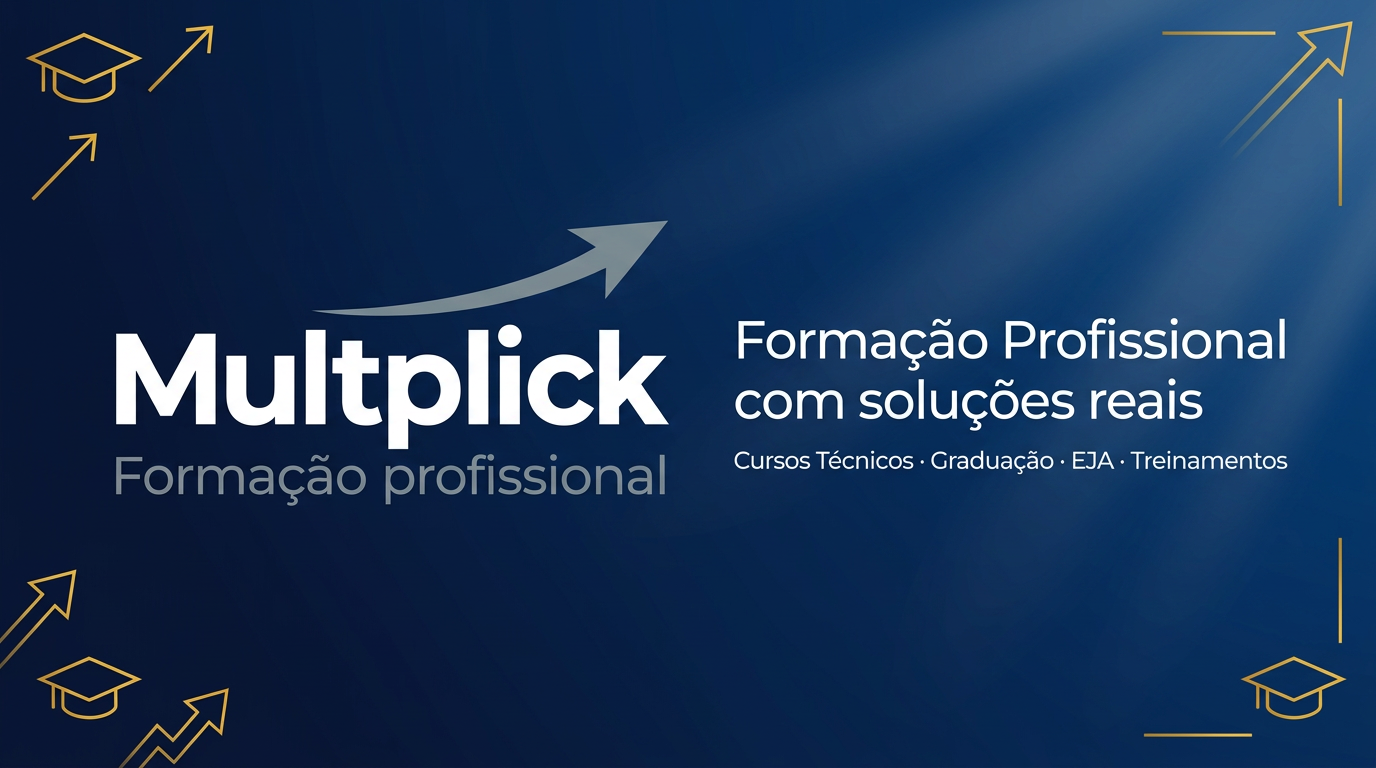
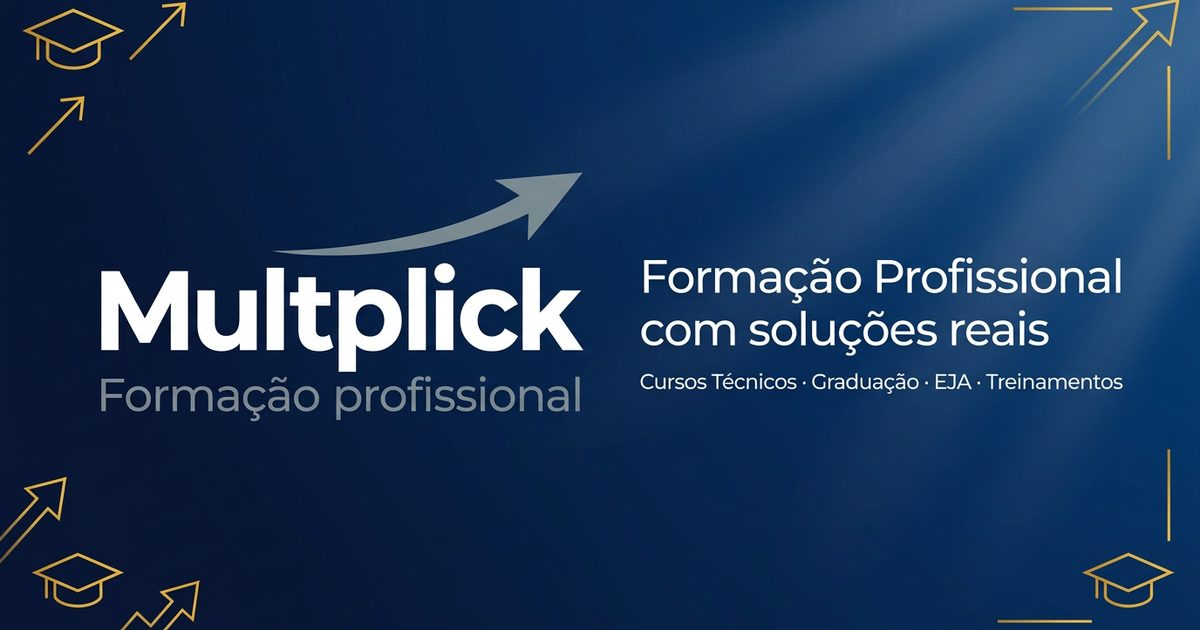
Imagem de compartilhamento leve para WhatsApp

diff --git a/index.html b/index.html
@@ -16,7 +16,8 @@
     
     
     <meta property="og:type" content="website" />
-    <meta property="og:url" content="/" />
+    <meta property="og:url" content="https://multplick.live/" />
+    <meta property="og:image:type" content="image/jpeg" />
 
     <meta name="twitter:card" content="summary_large_image" />
 
